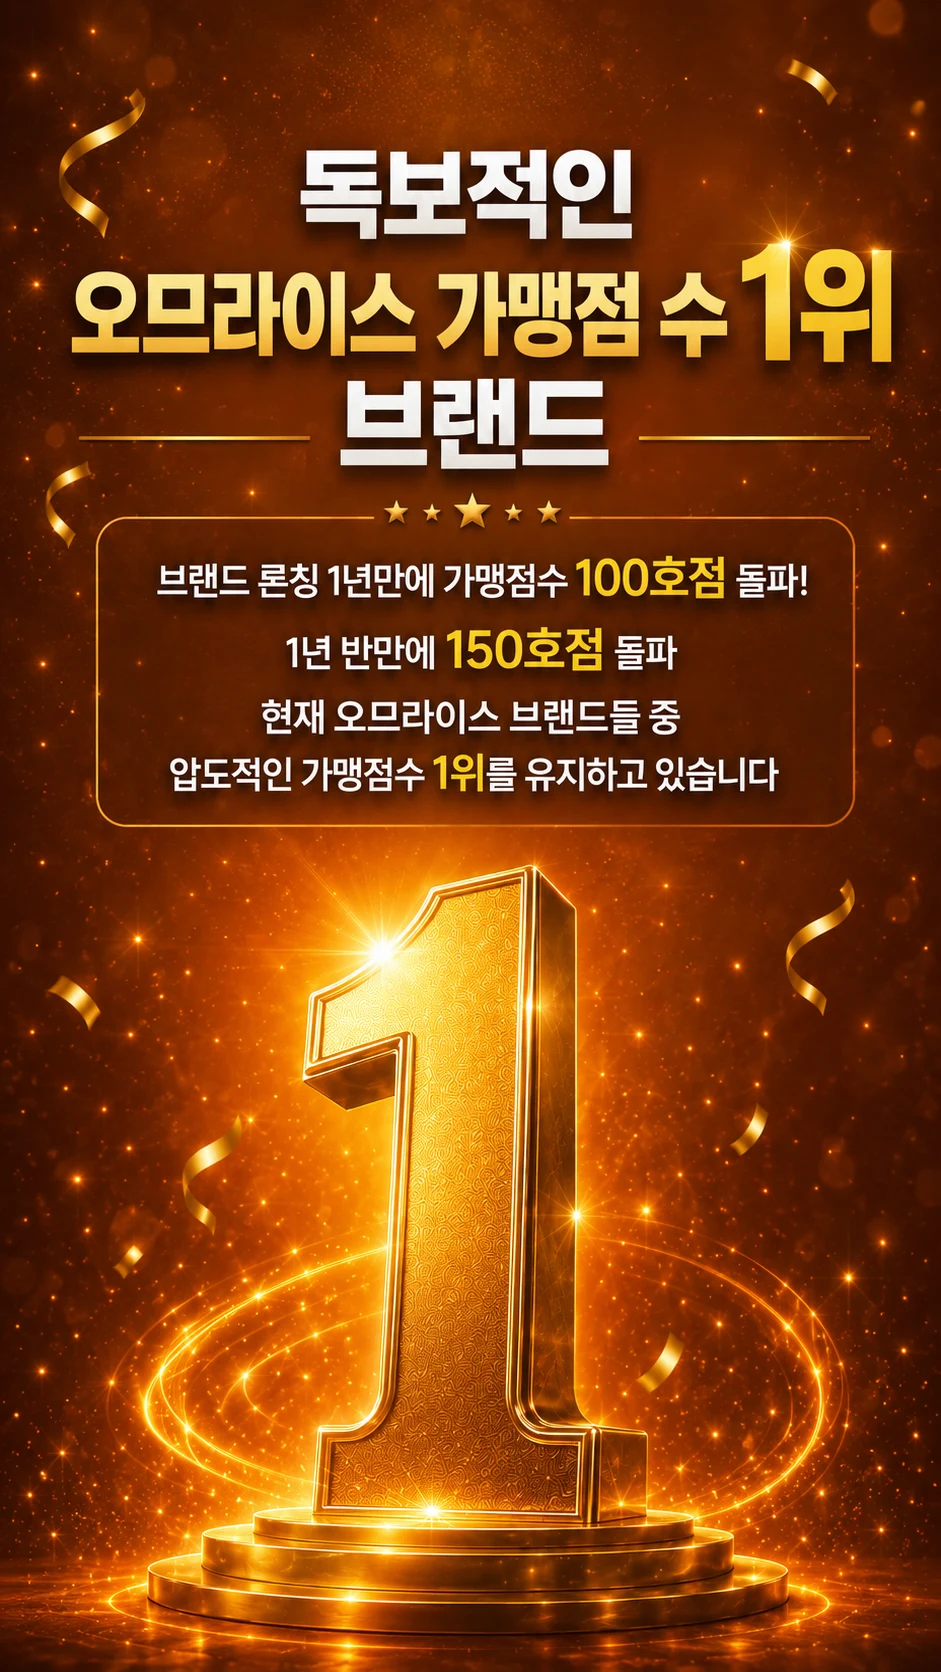
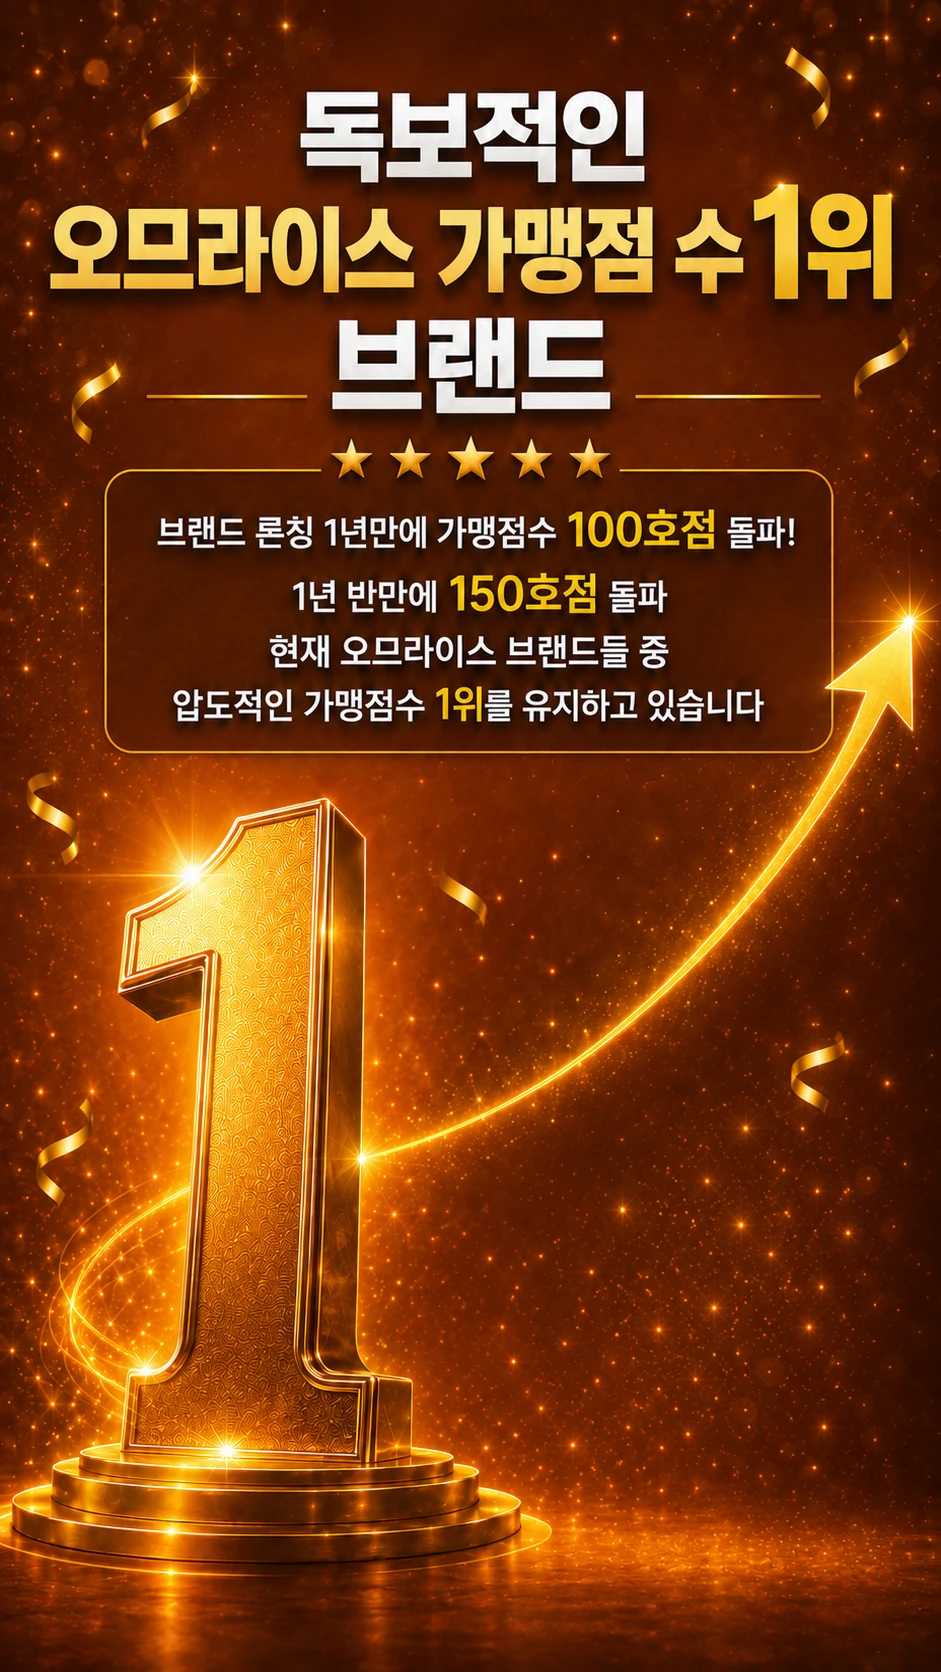
Fix: etc

diff --git a/src/widgets/achievement-rank/ui/AchievementRankSection.tsx b/src/widgets/achievement-rank/ui/AchievementRankSection.tsx
@@ -98,23 +98,6 @@ export default function AchievementRankSection() {
           />
         </motion.div>
 
-        <motion.div
-          aria-hidden
-          initial={{ opacity: 0, x: -36, y: 64, scale: 0.94 }}
-          animate={isInView ? { opacity: 1, x: 0, y: 0, scale: 1 } : {}}
-          transition={{ duration: 1.05, ease: [0.16, 1, 0.3, 1] }}
-          className="pointer-events-none absolute bottom-[15%] right-[-17%] top-[44%] w-[78%] md:hidden"
-        >
-          <Image
-            src="/new-asset/achievement-rank/mo-arrow.webp"
-            alt=""
-            fill
-            sizes="78vw"
-            className="object-contain object-right"
-            quality={92}
-          />
-        </motion.div>
-
         <div className="absolute bottom-[7%] left-[35%] right-[5%] hidden h-[36%] items-end justify-between gap-[1.1vw] md:flex">
           {milestones.map((item, index) => (
             <motion.div